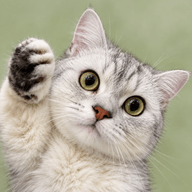
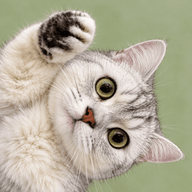
Fix card counts, Excel G windows and mobile duration entry

diff --git a/app.css b/app.css
@@ -19,3 +19,7 @@ html,body{max-width:100%;overflow-x:hidden}.brand-logo{width:42px;height:42px;bo
 .update-control{position:relative}.update-dot{position:absolute;right:6px;top:6px;width:8px;height:8px;border-radius:50%;background:#c46328;border:2px solid white}.update-dot[hidden]{display:none}
 
 .context-toggle input{flex:0 0 18px;min-width:18px;max-width:18px}.mark-tools .button{white-space:nowrap;padding:10px 9px;font-size:12px;gap:6px}
+
+/* Each row separates source text from timing and boundary checks. */
+.data-row .row-main{display:grid;grid-template-columns:20px 24px minmax(0,1fr) 30px;gap:7px;align-items:center;padding:12px}.row-select{display:flex;align-items:center}.data-row .row-no{width:auto}.data-row .row-content{min-width:0}.data-row .row-detail-button{position:static;min-width:30px;min-height:38px;padding:5px}.data-row .row-code .raw-e{font-size:13px}.equipment-name{color:#aa302b!important;font-weight:750;font-size:12px}.row-meta{gap:5px 8px}.row-metrics{grid-column:2/-1;display:grid;grid-template-columns:repeat(3,minmax(0,1fr));gap:10px;padding-top:9px;margin-top:3px;border-top:1px solid #80988c28;align-items:center}.row-metrics.marks-only{display:flex;justify-content:flex-end;padding-top:5px}.row-metrics small{display:block;font-size:10px;line-height:1.5;color:#697d73}.row-metrics .row-time{min-width:0;text-align:left}.row-metrics .row-time strong{font-size:14px}.row-metrics .row-time small{margin-top:2px}.background-counter{text-align:right;font-variant-numeric:tabular-nums;line-height:1.5}.background-counter strong{font-size:15px}.background-counter strong span{font-size:12px;font-weight:500;color:#6b7e73}.background-counter.background-over{color:#a32922;background:#ffe3df;padding:3px 7px;border-radius:7px}.background-over small,.background-over strong span{color:#a32922}.marks-only .background-counter{display:flex;align-items:baseline;gap:9px}.window-metric{text-align:right;min-width:0}.window-metric .window-value{font-size:16px;font-weight:750;padding:1px 8px}.window-empty{display:inline-block;color:#85968b;padding:1px 8px}.data-table .background-counter small{display:none}.data-table .background-counter{text-align:center}.data-table .equipment-name{font-size:12px}.row-main .row-detail-button svg{width:20px;height:20px}
+@media(max-width:360px){.data-row .row-main{grid-template-columns:18px 21px minmax(0,1fr) 26px;padding:10px;gap:5px}.data-row .row-code .raw-e{font-size:12px}.row-metrics{gap:6px}.row-metrics .row-time strong{font-size:13px}}

diff --git a/sw.js b/sw.js
@@ -1,5 +1,5 @@
-const CACHE='log-mobile-shell-7';
-const ASSETS=['./','./index.html','./app.css','./app.mjs','./domain.mjs','./storage.mjs','./validation.mjs','./update.mjs','./import-worker.js','./solver-worker.mjs','./vendor/xlsx.mini.min.js','./manifest.webmanifest','./icon-192.png','./icon-192.png?v=cat','./icon-512.png','./icon-512.png?v=cat'];
+const CACHE='log-mobile-shell-8';
+const ASSETS=['./','./index.html','./app.css','./app.mjs','./domain.mjs','./storage.mjs','./validation.mjs','./update.mjs','./import-worker.js','./solver-worker.mjs','./vendor/xlsx.mini.min.js','./manifest.webmanifest','./icon-192.png','./icon-192.png?v=cat-right','./icon-512.png','./icon-512.png?v=cat-right'];
 // Atomic app-shell install. An update waits until old tabs close; no mid-job reload.
 self.addEventListener('install',event=>event.waitUntil(caches.open(CACHE).then(cache=>cache.addAll(ASSETS.map(path=>new Request(path,{cache:'reload'}))))));
 // Explicit user action only, after a successful save. Avoid mixing modules in other tabs.

diff --git a/index.html b/index.html
@@ -10,8 +10,8 @@
   <meta http-equiv="Content-Security-Policy" content="default-src 'self'; script-src 'self'; worker-src 'self'; style-src 'self' 'unsafe-inline'; img-src 'self' data:; connect-src 'self'; object-src 'none'; base-uri 'self'; form-action 'none'">
   <title>LOG · 行動工作台</title>
   <link rel="manifest" href="./manifest.webmanifest">
-  <link rel="icon" type="image/png" href="./icon-192.png?v=cat">
-  <link rel="apple-touch-icon" href="./icon-192.png?v=cat">
+  <link rel="icon" type="image/png" href="./icon-192.png?v=cat-right">
+  <link rel="apple-touch-icon" href="./icon-192.png?v=cat-right">
   <link rel="stylesheet" href="./app.css">
   <script type="module" src="./app.mjs"></script>
 </head>

diff --git a/README.md b/README.md
@@ -8,11 +8,13 @@
    工作頁使用完整名稱選取，保留中文字、半形／全形括號與空白；搜尋可對應全半形括號。隱藏及深度隱藏頁預設收起，勾選「顯示隱藏工作頁」後會附註狀態；不改來源檔的可見性。讀取只解析所選頁及指定列，切頁時過期的讀取結果不會套入新頁。
 2. 匯入後預設顯示連續表格，全部 400 筆可直接捲動；設備原碼 E 是第一個主欄，元件 D 與設備、樓層、型式等欄位可橫向查看。也可切回卡片，兩個原始碼都會直接顯示。
 3. 「標記」可篩選黃底、紅底、藍底、樓層紅字或加時黃字；「保留前後 1 筆」用來對照邊界，鄰近參照列不會被「選全部篩選」自動選入。先選筆數，再展開上色工具；清除選取後工具自動收起。最多保留 12 步復原，樓層紅字會補黃底，既有紅底保留。
-4. 「設定」分上午、下午、一般／難、Auto／廠外、進場／收尾、跨區與遠距組合。時刻可填 0820 或 13:06；期間可填 2:20、3、3.5 分鐘。使用原生鍵盤。
+4. 「設定」分上午、下午、一般／難、Auto／廠外、進場／收尾、跨區與遠距組合。時刻可填 0820 或 13:06；期間改用分秒：`2.22`／`222`／`2:22` 都是2分22秒；1～2位整數為分鐘，3～4位整數為MMSS，點後一位為秒（`2.2`＝2分2秒），不再當小數分鐘。使用原生鍵盤。
 5. 遠距組合設定共用上下限，可再覆寫單筆；每筆只套一個組合。修改資料、標記、遠距或時間後，舊結果會失效。
 6. 試排在 Web Worker 中執行，可取消；20 秒到期會終止本次工作程序，不把有限搜尋失敗宣稱無解。點元件查看原文、解析、時間與間隔規則。
 7. 自動保存卡夾於 IndexedDB；匯出 `.log.json` 可換裝置，匯入後不信任舊計算結果，必須重算。CSV 明確為試排資料，不是 1000／2020 的 TXT。
-8. 結果的「近80間隔」以完整結果中同一半日的81筆時間計算，顯示於末筆；不足81筆顯示「—」，午休重新開始。門檻沿用3660秒（61:00），60:00～60:59也不通過。篩選只影響顯示，不改變窗口。廠外仍顯示實際累計，但不套80門檻。
+8. 結果的「80窗（分）」對應 Excel LOG!G：從本筆往後80間隔（81個時間點），整數分鐘顯示在起筆。核對來源：`2027-10LOG.xlsm` 的 `xl/worksheets/sheet4.xml` G5/G6，核心 `INT(ROUND((H[row+80]-H[row])*86400,0)/60)`。61以上通過，60及以下不通過；跨午休／往後不足81筆顯示「—」。上午、下午最低值與逐筆值使用相同完整結果計算，篩選不重算窗口。廠外保留數字但不套80門檻。
+9. 「本段筆數」顯示當筆位置／全段總數（例如4／23）；黃、紅、藍底均從1重起，到下一底色的前一筆結束。全段超過29筆就標紅；未有段首不假造數值。卡片將時間、背景計數、80窗分成三欄，設備名稱用紅字粗體。
+10. 新空白畫面不預設ARO1；未編輯、未匯入的空白佔位不會自動存成卡夾。刪除末張後保持空白，切到背景不會把已刪卡夾存回。舊卡夾不批次刪除。
 
 ## 範圍與限制
 
